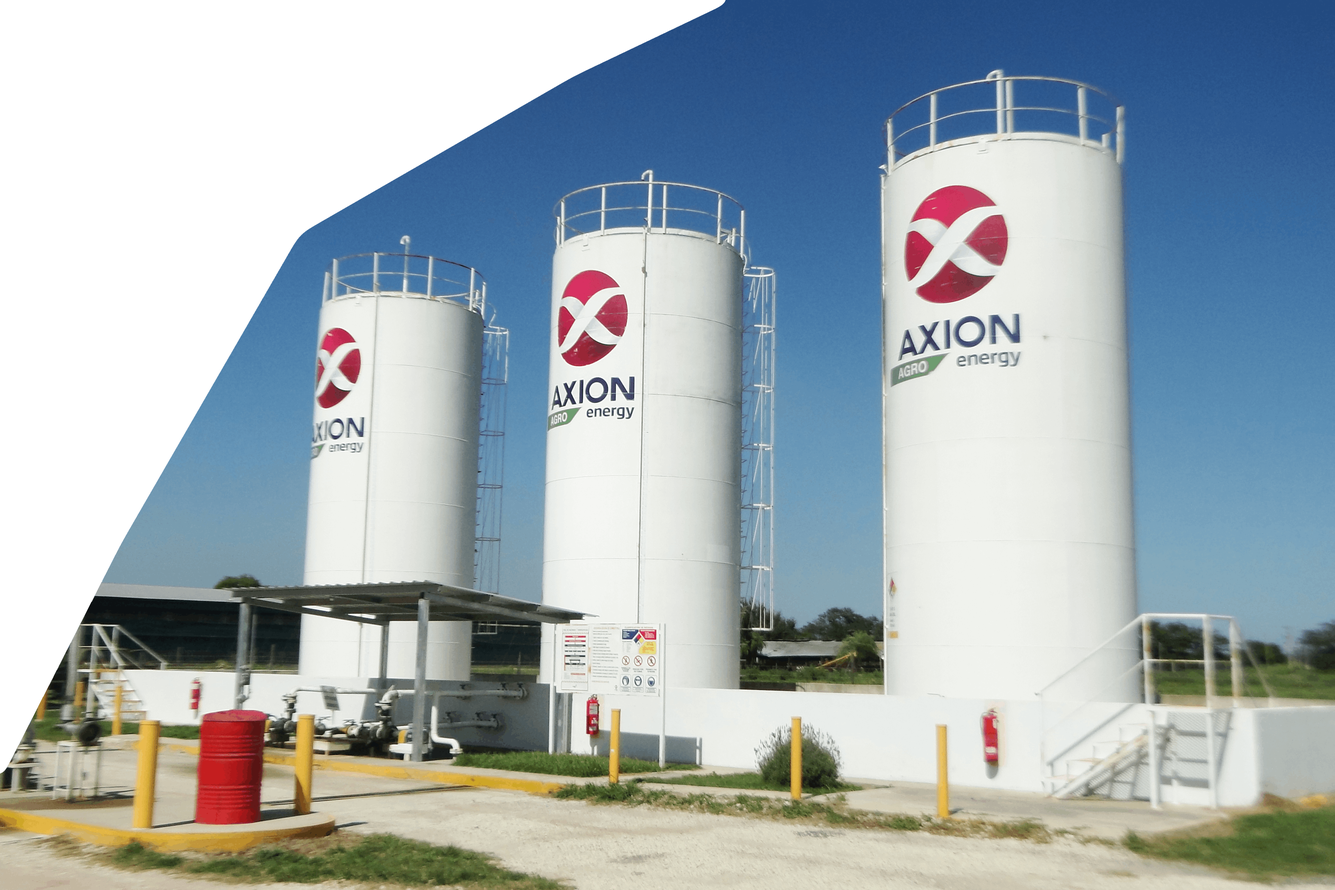
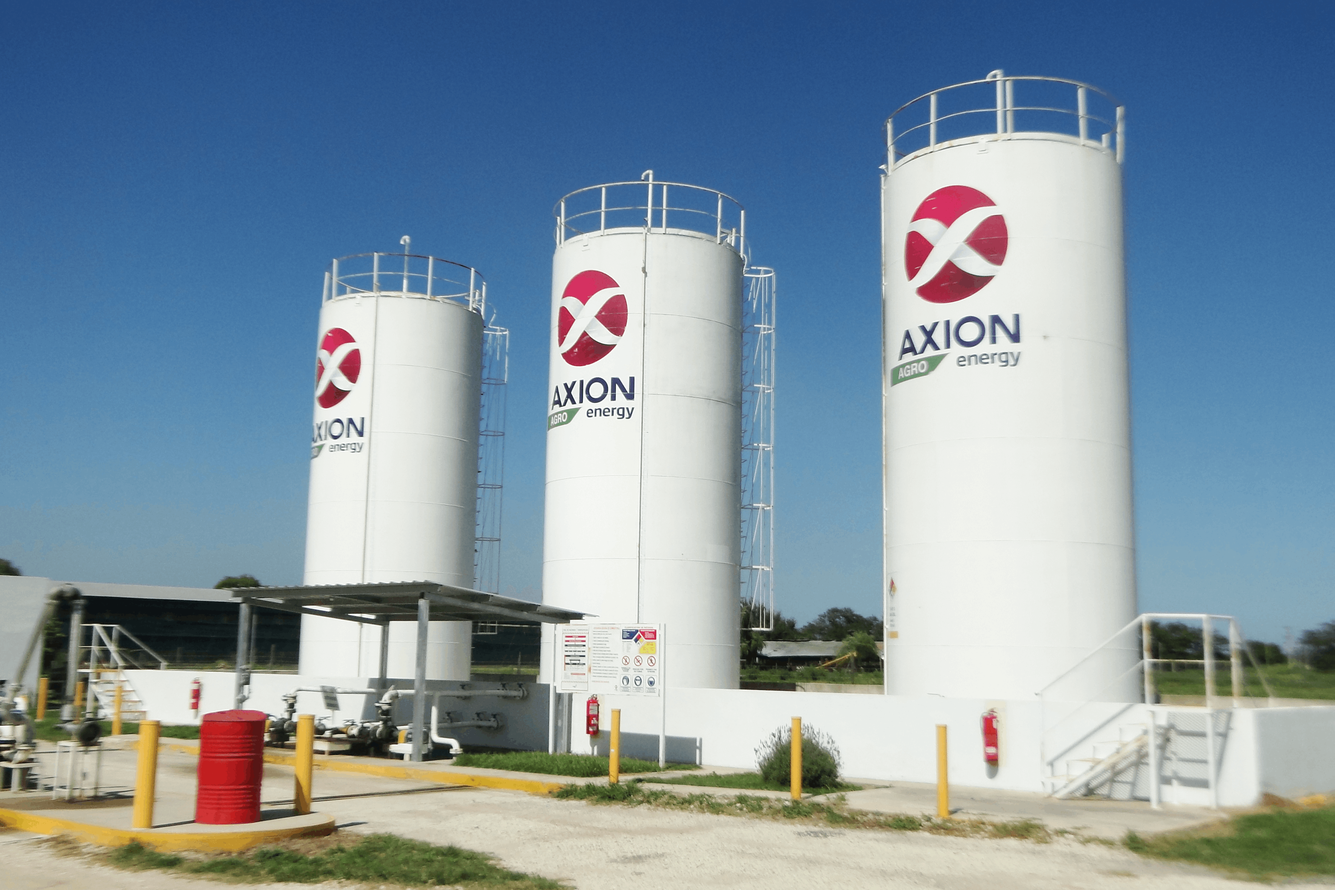
commit 'Cambio de imagenes a PNG'

Changed region(s): [[0.0, 0.0, 0.5625, 0.875]]

diff --git a/templates/index.html b/templates/index.html
@@ -14,7 +14,7 @@
                 <div class="container">
                     <div class="row p-5 ">
                         <div class="mx-auto col-md-8 col-lg-6 order-lg-last" style="padding-bottom: 40px;">
-                            <img class="img-fluid " style="border-radius: 100px; box-shadow: 0px 4px 8px rgba(0, 0, 0, 0.1);filter: drop-shadow(0px 2px 4px rgba(0, 0, 0, 0.1));" src="{% static "assets/img/pics/tanques.jpg" %}" alt="">
+                            <img class="img-fluid " style="border-radius: 100px; box-shadow: 0px 4px 8px rgba(0, 0, 0, 0.1);filter: drop-shadow(0px 2px 4px rgba(0, 0, 0, 0.1));" src="{% static "assets/img/pics/tanques.png" %}" alt="">
                         </div>
                         <div class="col-lg-6 mb-0 d-flex align-items-center">
                             <div class="text-align-left align-self-center">
@@ -31,7 +31,7 @@
                 <div class="container">
                     <div class="row p-5">
                         <div class="mx-auto col-md-8 col-lg-6 order-lg-last" style="padding-bottom: 40px;">
-                            <img class="img-fluid " style="border-radius: 100px; box-shadow: 0px 4px 8px rgba(0, 0, 0, 0.1);filter: drop-shadow(0px 2px 4px rgba(0, 0, 0, 0.1));" src="{% static "assets/img/pics/tanquegrosso.jpg" %}" alt="">
+                            <img class="img-fluid " style="border-radius: 100px; box-shadow: 0px 4px 8px rgba(0, 0, 0, 0.1);filter: drop-shadow(0px 2px 4px rgba(0, 0, 0, 0.1));" src="{% static "assets/img/pics/tanquegrosso.png" %}" alt="">
                         </div>
                         <div class="col-lg-6 mb-0 d-flex align-items-center">
                             <div class="text-align-left">
@@ -49,7 +49,7 @@
                 <div class="container">
                     <div class="row p-5">
                         <div class="mx-auto col-md-8 col-lg-6 order-lg-last" style="padding-bottom: 40px;">
-                            <img class="img-fluid" style="border-radius: 100px; box-shadow: 0px 4px 8px rgba(0, 0, 0, 0.1);filter: drop-shadow(0px 2px 4px rgba(0, 0, 0, 0.1));" src="{% static 'assets/img/pics/tanque.jpg' %}" alt="">
+                            <img class="img-fluid" style="border-radius: 100px; box-shadow: 0px 4px 8px rgba(0, 0, 0, 0.1);filter: drop-shadow(0px 2px 4px rgba(0, 0, 0, 0.1));" src="{% static 'assets/img/pics/tanque.png' %}" alt="">
                         </div>
                         <div class="col-lg-6 mb-0 d-flex align-items-center">
                             <div class="text-align-left">
